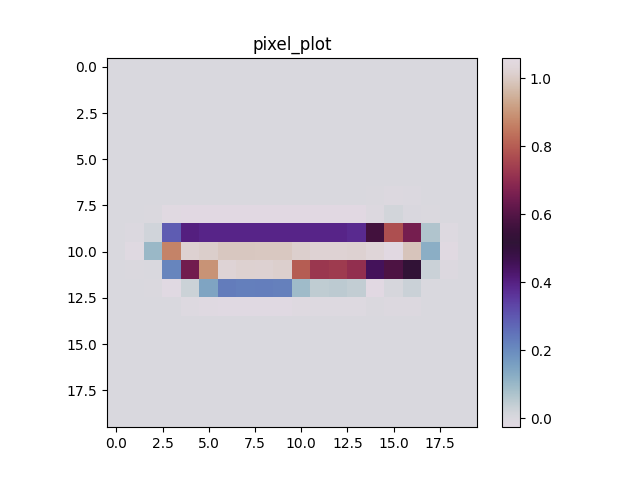
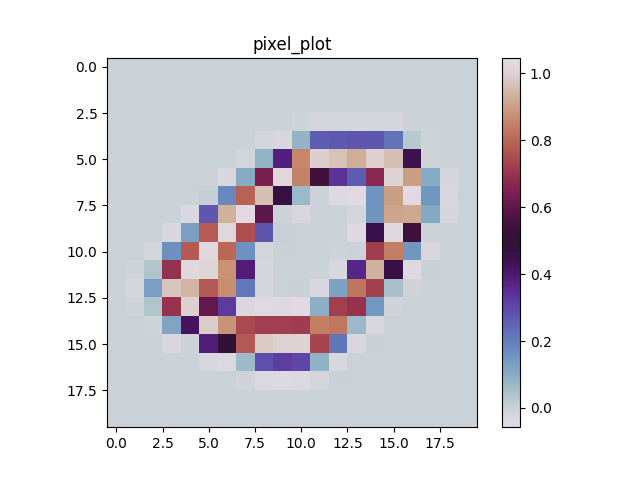
update

diff --git a/main.py b/main.py
@@ -16,7 +16,7 @@ for i in range(0, 5000):
 pixel_plot = plt.figure()
 pixel_plot.add_axes()
 plt.title("pixel_plot")
-pixel_plot = plt.imshow(X[999], cmap='twilight', interpolation='nearest')
+pixel_plot = plt.imshow(X[0], cmap='twilight', interpolation='nearest')
 plt.colorbar(pixel_plot)
 plt.savefig('pixel_plot.png')
 plt.gray()
